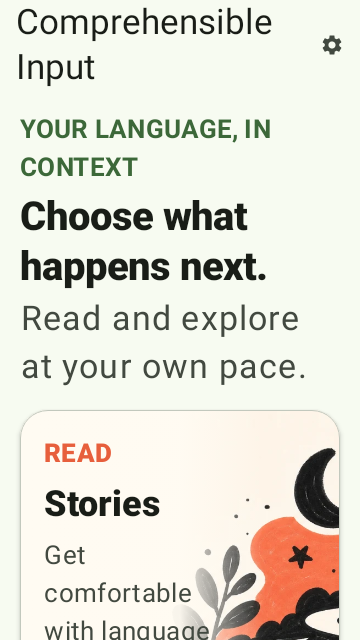
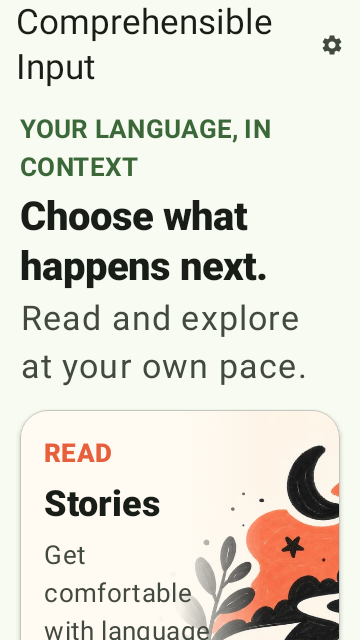
fix: correct home screen RTL layout and large-font sizing
The home option cards drew a fixed, left-anchored scrim over a
left-to-right gradient while the card text aligned to the start edge.
In RTL that put the text on top of the fully visible artwork, making it
unreadable. Mirror the scrim and flip the artwork for RTL so the text
always sits over the solid side and the card mirrors cleanly.

Also:
- Derive dark mode from the active colour scheme's surface luminance
  instead of isSystemInDarkTheme(), so the card follows the app theme
  even when dark mode is forced independently of the system.
- Let cards grow with their content (heightIn min) so large font scales
  no longer clip the description.
- Add an RTL preview/screenshot for the home screen.
- Track :feature-home in the Kover aggregation and coverage snapshots so
  its coverage is recorded and its screenshots are verified in CI, like
  the other feature modules.

https://claude.ai/code/session_01XxDbbL2js7XVH3E3eS7aD7

Changed region(s): [[0.5194, 0.6875, 0.9472, 1.0], [0.6417, 0.7812, 0.6722, 0.8125]]

diff --git a/feature/home/src/main/java/input/comprehensible/ui/home/HomeUI.kt b/feature/home/src/main/java/input/comprehensible/ui/home/HomeUI.kt
@@ -3,14 +3,13 @@ package input.comprehensible.ui.home
 import androidx.compose.foundation.BorderStroke
 import androidx.compose.foundation.Image
 import androidx.compose.foundation.background
-import androidx.compose.foundation.isSystemInDarkTheme
 import androidx.compose.foundation.layout.Arrangement
 import androidx.compose.foundation.layout.Box
 import androidx.compose.foundation.layout.Column
 import androidx.compose.foundation.layout.PaddingValues
 import androidx.compose.foundation.layout.fillMaxSize
 import androidx.compose.foundation.layout.fillMaxWidth
-import androidx.compose.foundation.layout.height
+import androidx.compose.foundation.layout.heightIn
 import androidx.compose.foundation.layout.padding
 import androidx.compose.foundation.lazy.LazyColumn
 import androidx.compose.material.icons.Icons
@@ -26,16 +25,21 @@ import androidx.compose.material3.Scaffold
 import androidx.compose.material3.Text
 import androidx.compose.material3.TopAppBar
 import androidx.compose.runtime.Composable
+import androidx.compose.runtime.CompositionLocalProvider
 import androidx.compose.ui.Alignment
 import androidx.compose.ui.Modifier
 import androidx.compose.ui.graphics.Brush
 import androidx.compose.ui.graphics.Color
+import androidx.compose.ui.graphics.graphicsLayer
+import androidx.compose.ui.graphics.luminance
 import androidx.compose.ui.layout.ContentScale
-import androidx.compose.ui.platform.LocalDensity
+import androidx.compose.ui.platform.LocalLayoutDirection
 import androidx.compose.ui.platform.testTag
 import androidx.compose.ui.res.painterResource
 import androidx.compose.ui.res.stringResource
 import androidx.compose.ui.text.font.FontWeight
+import androidx.compose.ui.tooling.preview.Preview
+import androidx.compose.ui.unit.LayoutDirection
 import androidx.compose.ui.unit.dp
 import input.comprehensible.feature.home.R
 import input.comprehensible.ui.theme.ComprehensibleInputTheme
@@ -150,45 +154,59 @@ private fun HomeOptionCard(
     onClick: () -> Unit,
     modifier: Modifier = Modifier,
 ) {
-    val isDarkTheme = isSystemInDarkTheme()
-    val cardHeight = 220.dp * LocalDensity.current.fontScale.coerceAtLeast(1f)
+    // Derive the theme from the active colour scheme rather than the system setting so the
+    // card stays consistent with the rest of the app even if dark mode is forced explicitly.
+    val isDarkTheme = MaterialTheme.colorScheme.surface.luminance() < 0.5f
+    val isRtl = LocalLayoutDirection.current == LayoutDirection.Rtl
     val cardColor = if (isDarkTheme) {
         Color(0xFF181A18)
     } else {
         Color(0xFFFFFBF2)
     }
+    // The scrim keeps the card colour opaque behind the text and fades out to reveal the
+    // artwork on the opposite edge. Mirror both the scrim and the artwork in RTL so the text
+    // always sits over the solid side and stays legible.
+    val scrim = if (isRtl) {
+        Brush.horizontalGradient(
+            0.24f to Color.Transparent,
+            0.5f to cardColor.copy(alpha = 0.97f),
+            1f to cardColor,
+        )
+    } else {
+        Brush.horizontalGradient(
+            0f to cardColor,
+            0.5f to cardColor.copy(alpha = 0.97f),
+            0.76f to Color.Transparent,
+        )
+    }
 
     Card(
         onClick = onClick,
-        modifier = modifier
-            .fillMaxWidth()
-            .height(cardHeight),
+        modifier = modifier.fillMaxWidth(),
         shape = MaterialTheme.shapes.extraLarge,
         colors = CardDefaults.cardColors(containerColor = cardColor),
         border = BorderStroke(1.dp, MaterialTheme.colorScheme.outlineVariant),
         elevation = CardDefaults.cardElevation(defaultElevation = 3.dp),
     ) {
         Box(
+            // A minimum height keeps the intended look, but letting the box grow means large
+            // font scales push the card taller instead of clipping the text.
             modifier = Modifier
                 .fillMaxWidth()
-                .height(cardHeight),
+                .heightIn(min = 220.dp),
         ) {
             Image(
                 painter = painterResource(if (isDarkTheme) darkImage else lightImage),
                 contentDescription = null,
-                modifier = Modifier.fillMaxSize(),
+                modifier = Modifier
+                    .matchParentSize()
+                    .then(if (isRtl) Modifier.graphicsLayer { scaleX = -1f } else Modifier),
                 contentScale = ContentScale.Crop,
             )
             Box(
                 modifier = Modifier
-                    .fillMaxSize()
-                    .background(
-                        Brush.horizontalGradient(
-                            0f to cardColor,
-                            0.5f to cardColor.copy(alpha = 0.97f),
-                            0.76f to Color.Transparent,
-                        ),
-                    ),
+                    .matchParentSize()
+                    .background(scrim),
             )
             Column(
                 modifier = Modifier
@@ -248,5 +266,24 @@ fun PreviewHomeTextAdventuresDisabled() {
             onSettingsClick = {},
             modifier = Modifier.fillMaxSize(),
         )
+    }
+}
+
+@Preview(
+    name = "phone rtl",
+    showBackground = true,
+)
+@Composable
+fun PreviewHomeRtl() {
+    CompositionLocalProvider(LocalLayoutDirection provides LayoutDirection.Rtl) {
+        ComprehensibleInputTheme {
+            HomeScreen(
+                textAdventuresEnabled = true,
+                onStoriesClick = {},
+                onTextAdventuresClick = {},
+                onSettingsClick = {},
+                modifier = Modifier.fillMaxSize(),
+            )
+        }
     }
 }